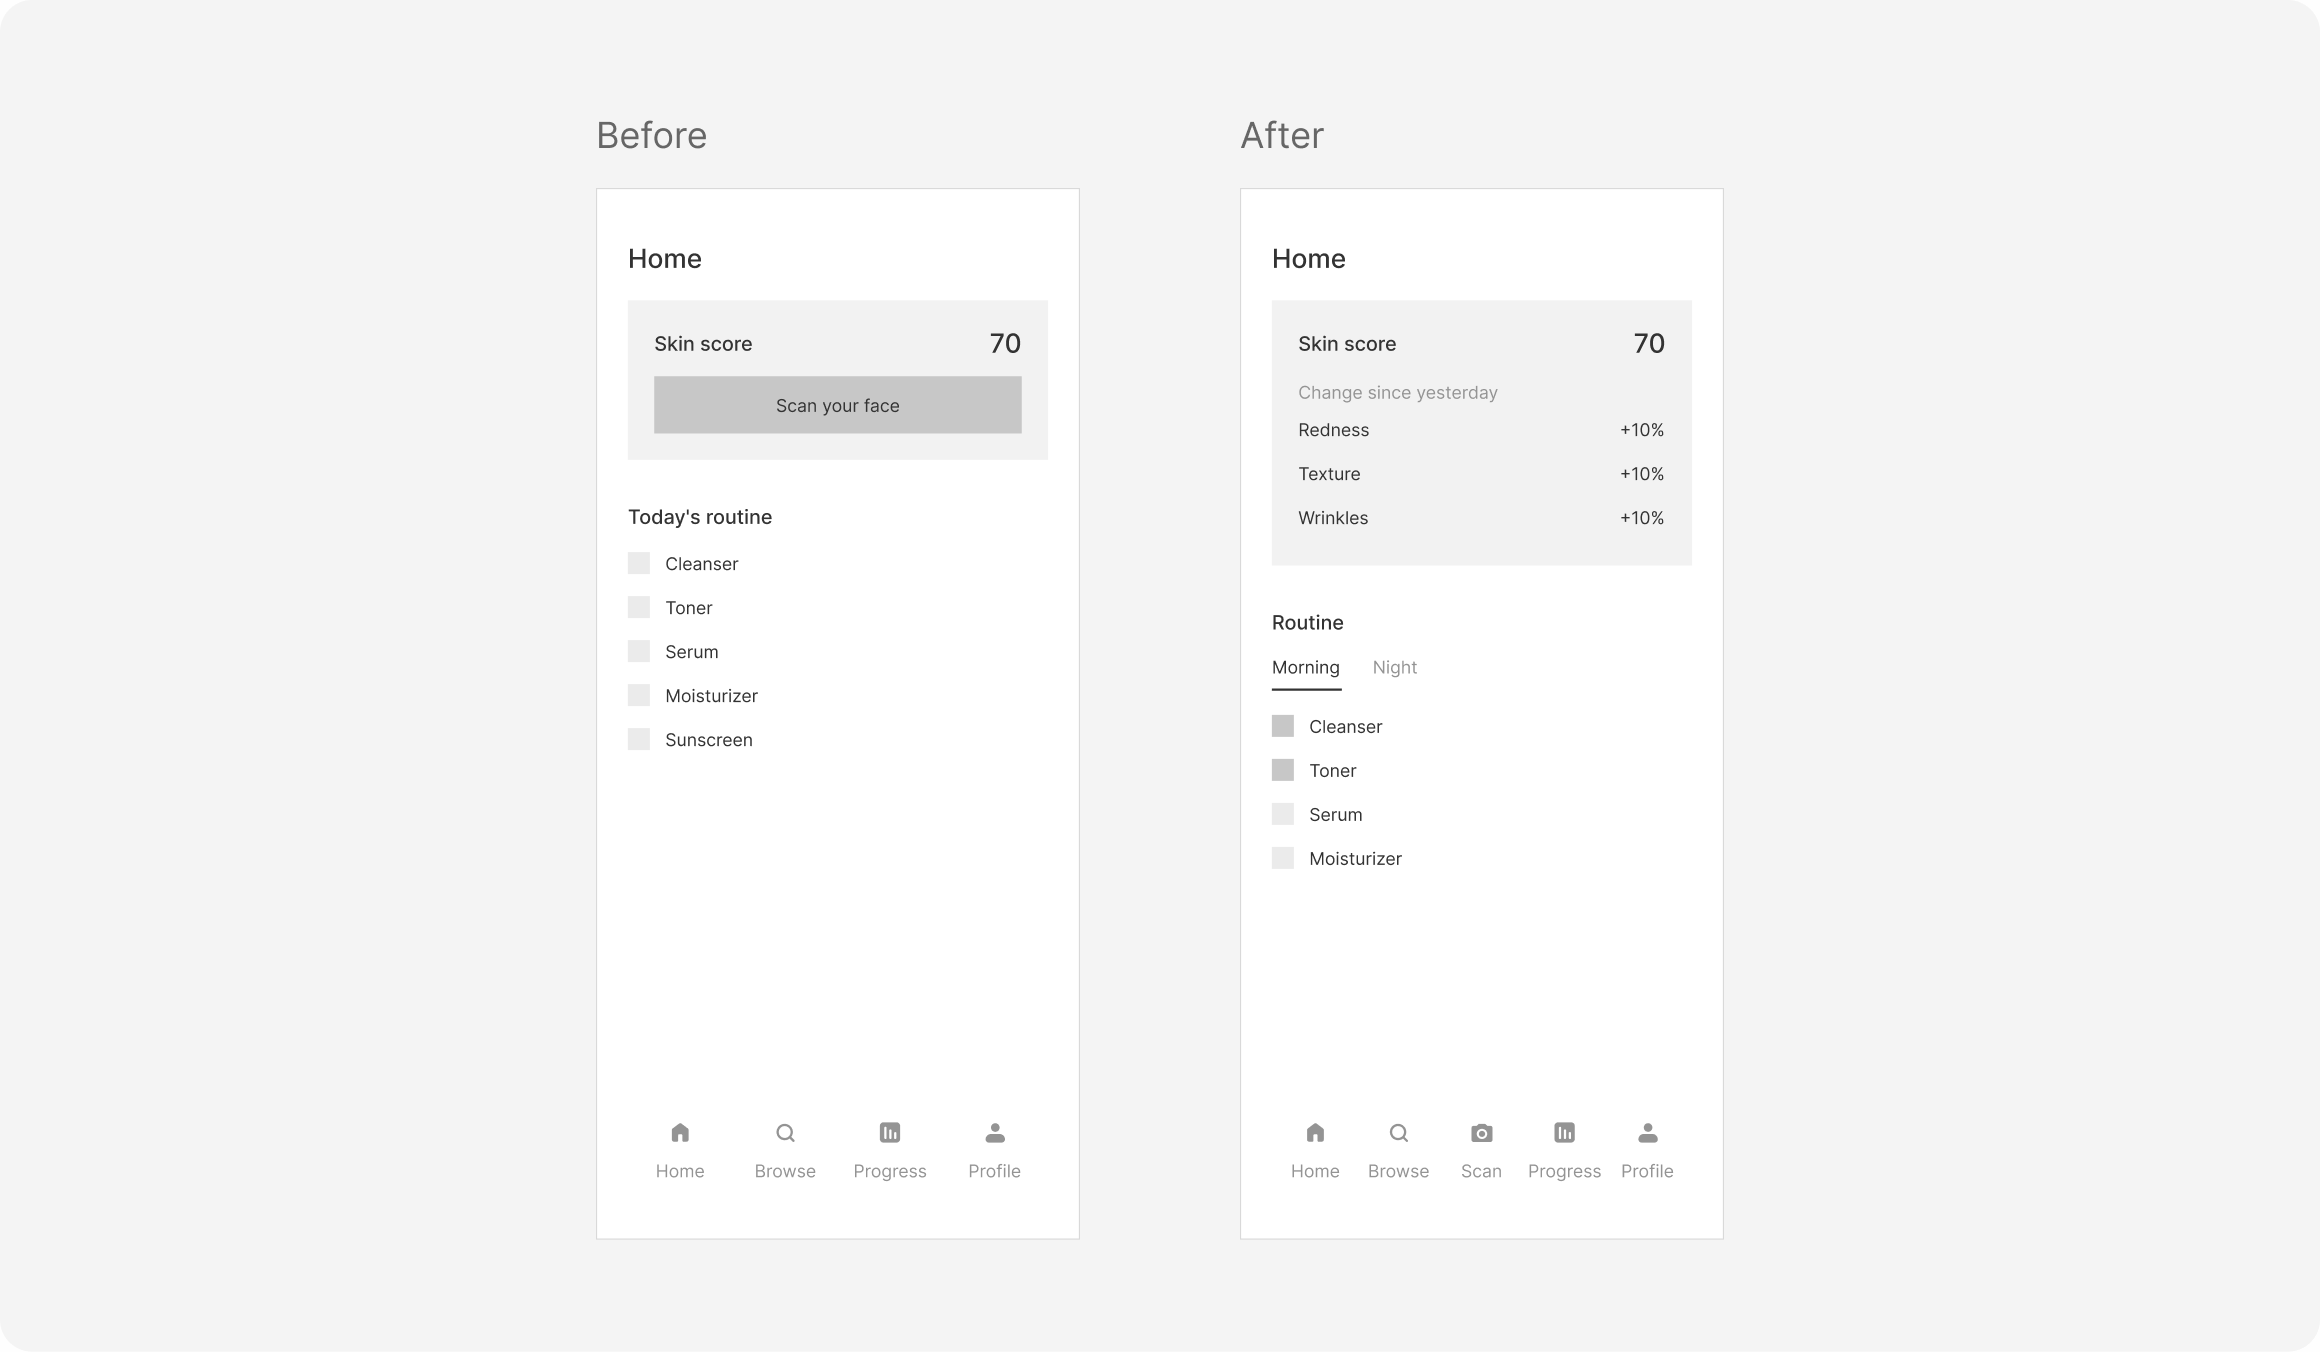
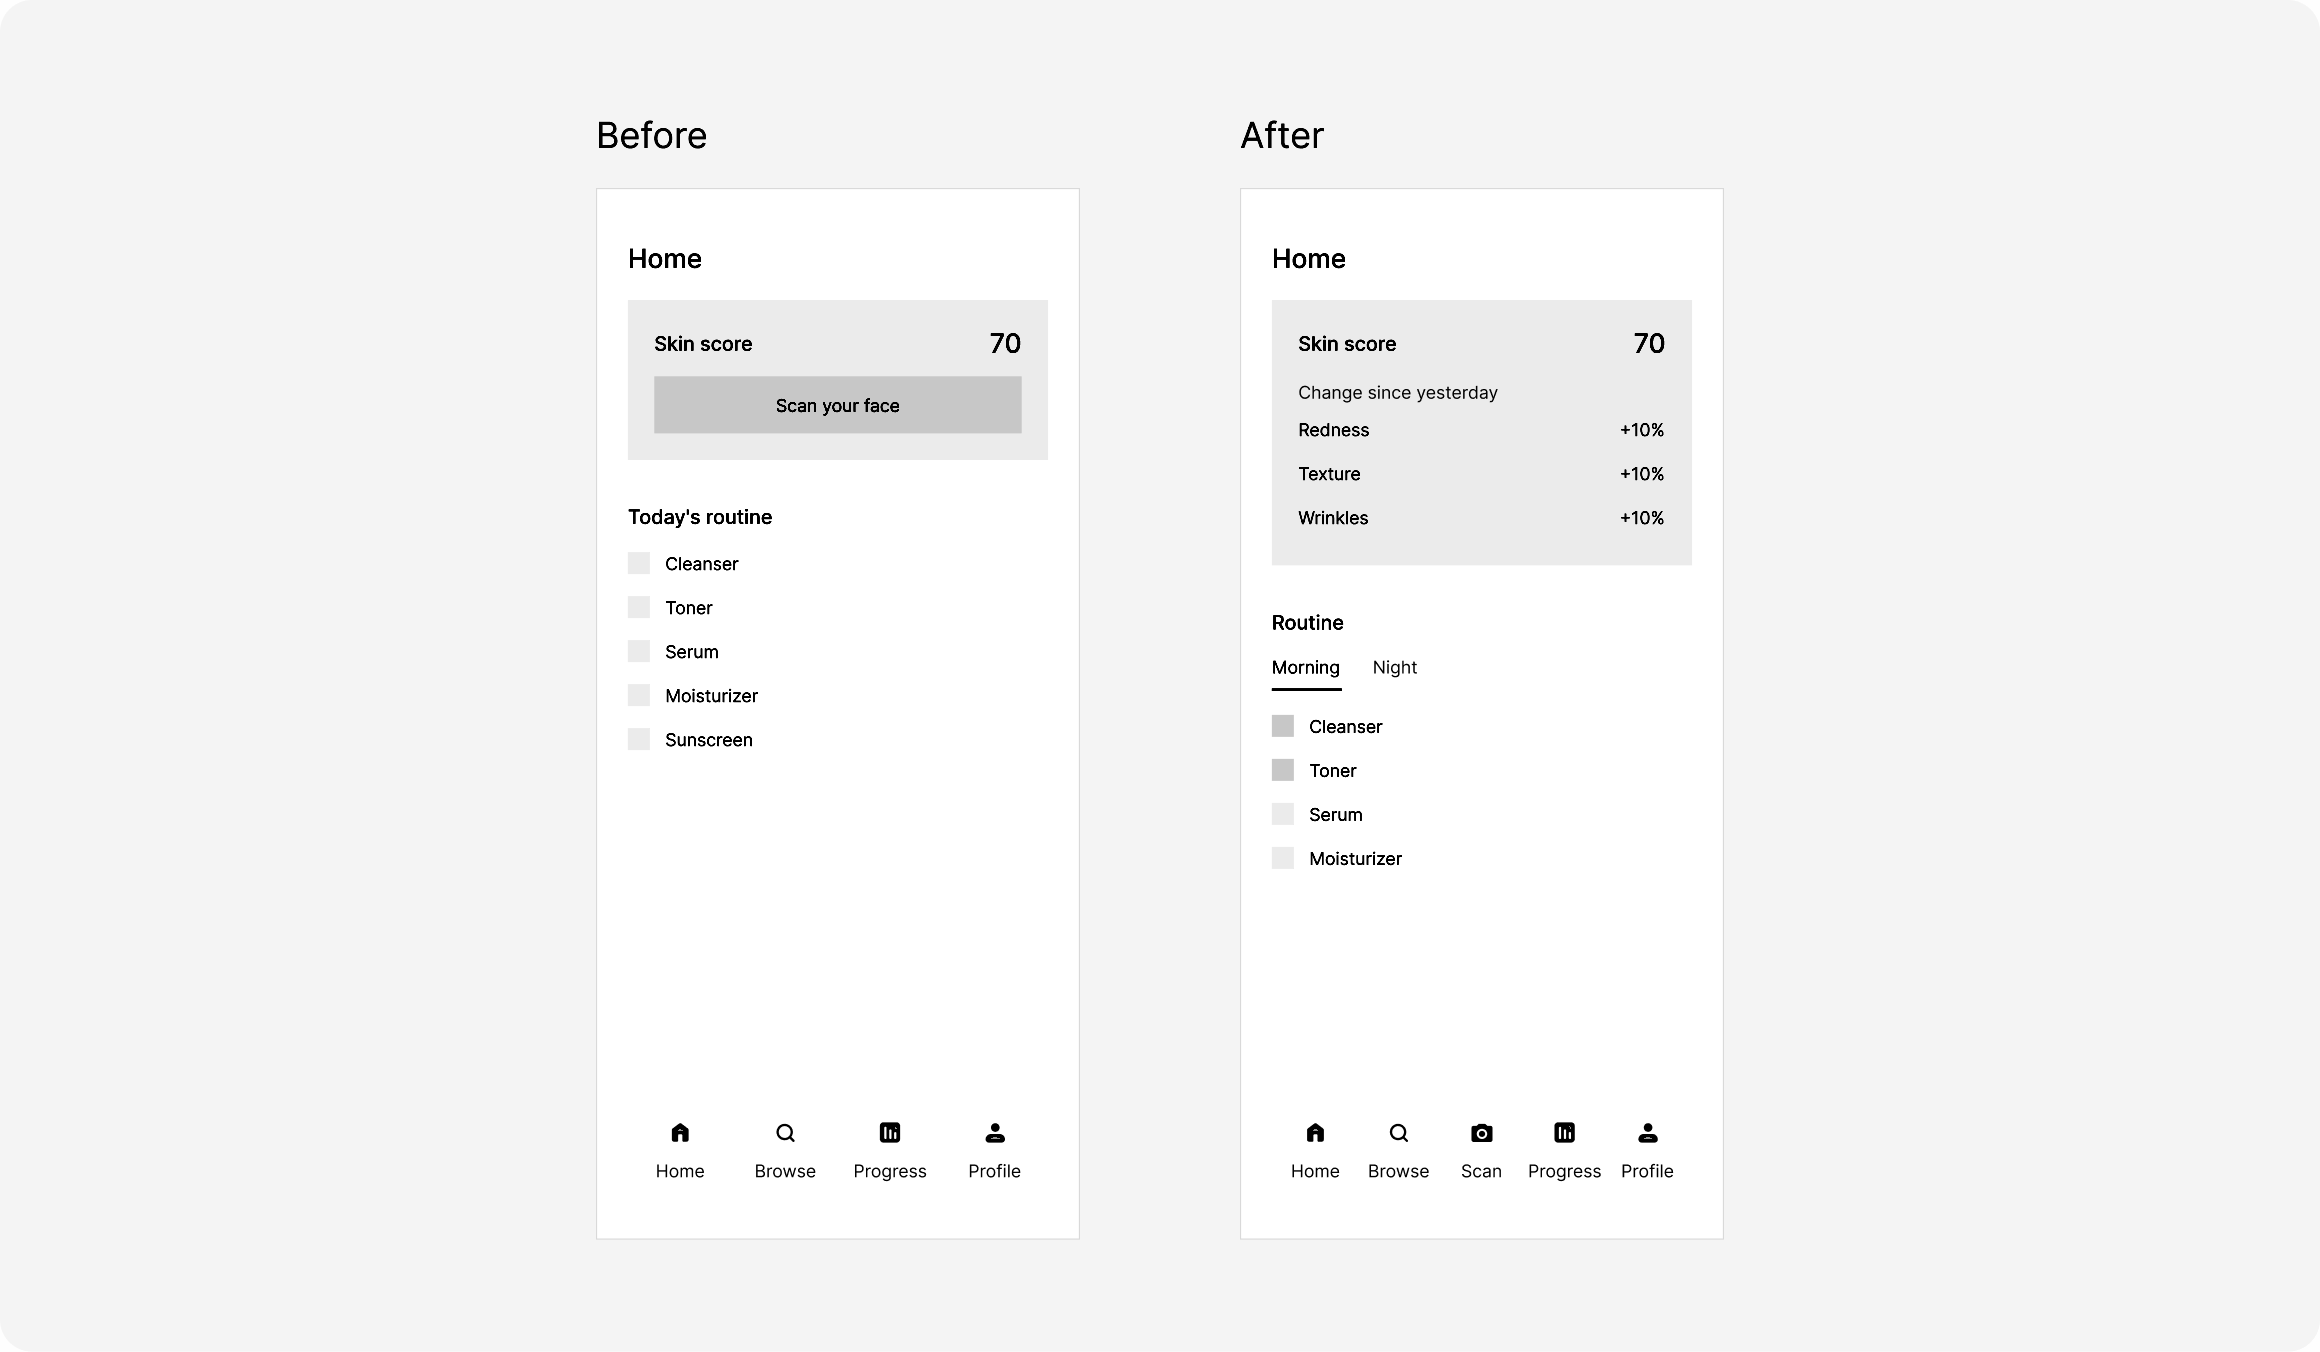
Skyn: before/after wireframes match the new style (black text, two greys, fewer headers)
Claude-Session: https://claude.ai/code/session_015vF3fknx26ijuPFq6BGXjN

diff --git a/skyn-site/index.html b/skyn-site/index.html
@@ -371,7 +371,7 @@
                   </div>
                 </div>
                 <div class="ba">
-                <img class="figure" src="images/test-home.png" width="1160" height="676" loading="lazy"
+                <img class="figure" src="images/test-home.png?v=2" width="1160" height="676" loading="lazy"
                   alt="Home wireframe before and after testing: the after version adds a Scan tab to the nav bar, per-concern changes under the skin score, and Morning and Night routine tabs">
                 </div>
                 </div>
@@ -392,7 +392,7 @@
                     <p class="body">A live checklist for angle, lighting, size and position, with a hint like “Too dark” when something needs fixing.</p>
                   </div>
                 </div>
-                <img class="figure" src="images/test-face-scanner.png" width="1160" height="676" loading="lazy"
+                <img class="figure" src="images/test-face-scanner.png?v=2" width="1160" height="676" loading="lazy"
                   alt="Scanner wireframe before and after testing: the after version adds a face outline and a checklist for angle, lighting, size and position">
                 </div>
 
@@ -413,7 +413,7 @@
                   </div>
                 </div>
                 <div class="ba">
-                <img class="figure" src="images/test-product-scan.png" width="1160" height="676" loading="lazy"
+                <img class="figure" src="images/test-product-scan.png?v=2" width="1160" height="676" loading="lazy"
                   alt="Product scan result wireframe before and after testing: the after version asks Is this it? with No and Yes buttons and lists other matches">
                 </div>
                 </div>
@@ -434,7 +434,7 @@
                   </div>
                 </div>
                 <div class="ba">
-                <img class="figure" src="images/test-product-detail.png" width="1160" height="864" loading="lazy"
+                <img class="figure" src="images/test-product-detail.png?v=2" width="1160" height="864" loading="lazy"
                   alt="Product detail wireframe before and after testing: the after version replaces the long ingredient list with scores by skin concern and key ingredients">
                 </div>
                 </div>
